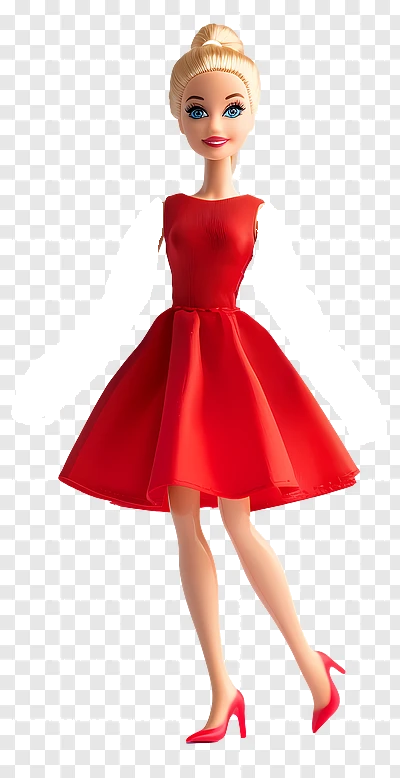
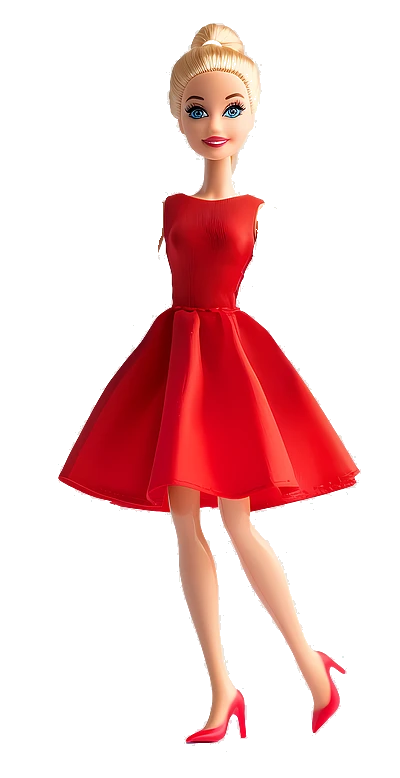
Enlever blanc tout images

diff --git a/snake_ladders/minigames/hangman/hang_constantes.py b/snake_ladders/minigames/hangman/hang_constantes.py
@@ -15,7 +15,6 @@ class hang_constantes:
     rgba_rouge = (255, 0, 0, 22)
     rgb_noir = (0, 0, 0)
     couleur_fond_ecran = (0, 0, 0, 0)
-    blanc_tolerance = 245
 
     #===================== Nom fichier images =====================#
     emplacement_actuel = os.path.dirname(os.path.abspath(__file__))
